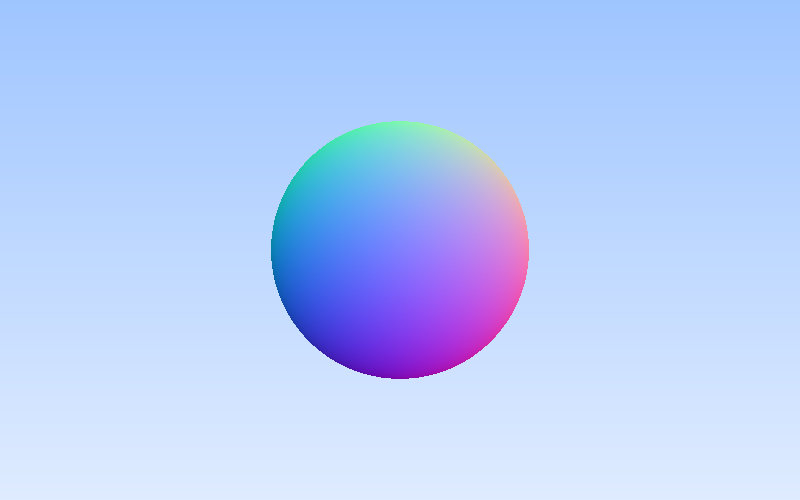
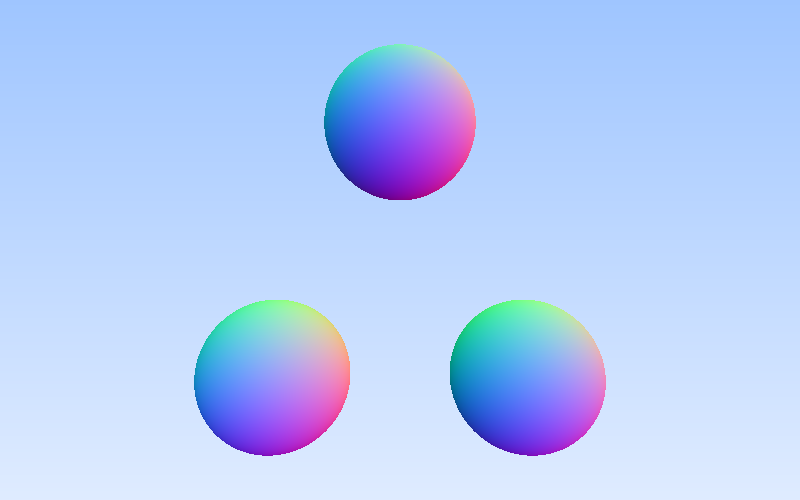
Added World struct for multiple object support

Changed region(s): [[0.2188, 0.09, 0.7812, 0.93]]

diff --git a/src/util/hittable.rs b/src/util/hittable.rs
@@ -7,18 +7,67 @@ type Point = Vector3;
 pub struct RayCollision { // returned when an object is hit by a ray.
     pub hit_point: Point,
     pub normal: Point,
-    pub distance: f32
+    pub distance: f32,
+    pub front_face: bool
 }
 
 impl RayCollision {
-    pub fn new(hit_point: Point, normal: Point, distance: f32) -> Self {
-        RayCollision { hit_point, normal, distance }
+    pub fn new(ray: Ray, normal: Point, distance: f32) -> Self {
+        // if normal points into shape, reverse it.
+        let is_inward: bool = ray.direction.dot(&normal) < 0.0; 
+        let outward_normal: Point = if is_inward { normal } else { normal.scalar_mul(-1.0) }; 
+
+        RayCollision { 
+            hit_point: ray.at(distance), 
+            normal: outward_normal, 
+            distance,
+            front_face: is_inward
+        }
+    }
+}
+
+pub struct World {
+    pub objects: Vec<Box<dyn Hittable>>,
+}
+
+impl World {
+    pub fn new(initial: Vec<Box<dyn Hittable>>) -> Self {
+        World { objects: initial }
+    }
+
+    pub fn insert(mut self, object: Box<dyn Hittable>) -> Self {
+        self.objects.push(object);
+        self
+    }
+}
+
+impl Hittable for World {
+    fn hit(&self, ray: Ray) -> Option<RayCollision> {
+        let hits: Vec<Option<RayCollision>> = self.objects
+            .iter()
+            .map(|obj| obj.hit(ray))
+            .collect();
+
+        let mut minimum: Option<RayCollision> = None;
+        for collision in hits {
+            let _ = match collision {
+                Some(c) => {
+                    match minimum {
+                        Some(min) => if min.distance > c.distance { minimum = Some(c) },
+                        None => minimum = Some(c)
+                    }
+                },
+                None => {}
+            };
+        }
+
+        minimum
     }
 }
 
 // trait for all render objects
 pub trait Hittable {
-    fn hit(self, ray: Ray) -> Option<RayCollision>;
+    fn hit(&self, ray: Ray) -> Option<RayCollision>;
 }
 
 #[derive(Copy, Clone, Debug)]
@@ -34,7 +83,7 @@ impl Sphere {
 }
 
 impl Hittable for Sphere {
-    fn hit(self, ray: Ray) -> Option<RayCollision> {
+    fn hit(&self, ray: Ray) -> Option<RayCollision> {
         // t^2*b*b + 2tb*(A-C)+(A-C)*(A-C) t solved using quadratic formula
         let o_min_c: Point = ray.origin + self.center.scalar_mul(-1.0);
         let a: f32 = ray.direction.dot(&ray.direction); 
@@ -47,10 +96,9 @@ impl Hittable for Sphere {
 
         // finish quad formula to get ray distance. 
         let dist: f32 = (-1.0 * b - formula_sqrt.sqrt()) / (2.0 * a);
-        let collision: Point = ray.at(dist);
-        let norm: Point = (collision + self.center.scalar_mul(-1.0)).unit(); 
+        let norm: Point = (ray.at(dist) + self.center.scalar_mul(-1.0)).unit(); 
         
-        Some(RayCollision::new(collision, norm, dist)) 
+        Some(RayCollision::new(ray, norm, dist)) 
 
     }
 }

diff --git a/src/main.rs b/src/main.rs
@@ -45,8 +45,11 @@ fn main() -> std::io::Result<()> {
 }
 
 fn ray_color(r: Ray) -> Color {
-    let sphere: Sphere = Sphere::new(Point::new(0.0, 0.0, -1.0), 0.25);
-    let collide: Option<RayCollision> = sphere.hit(r);
+    let world: World = World::new(vec![])
+        .insert(Box::new(Sphere::new(Point::new(-0.25, -0.25, -1.0), 0.15)))
+        .insert(Box::new(Sphere::new(Point::new(0.25, -0.25, -1.0), 0.15)))
+        .insert(Box::new(Sphere::new(Point::new(0.0, 0.25, -1.0), 0.15)));
+    let collide: Option<RayCollision> = world.hit(r);
 
     match collide {
         Some(c) => {
